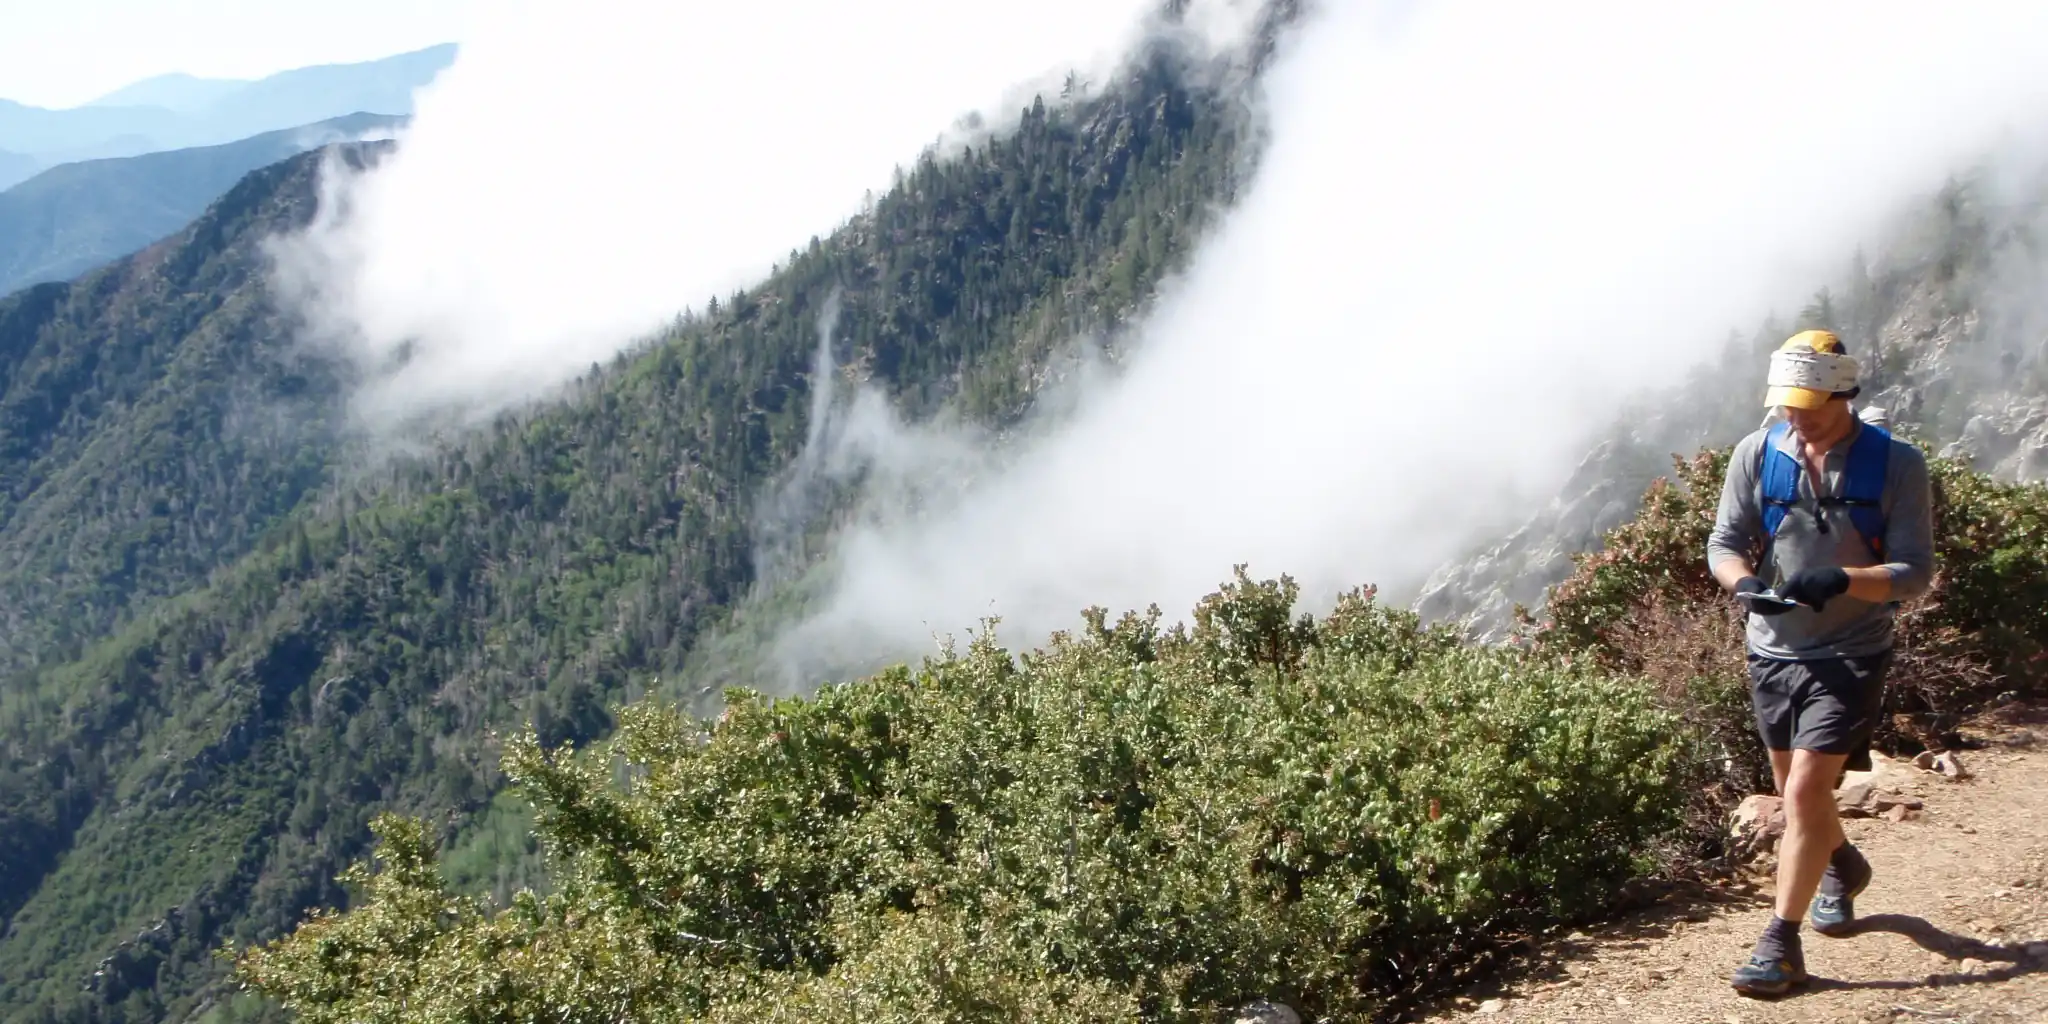
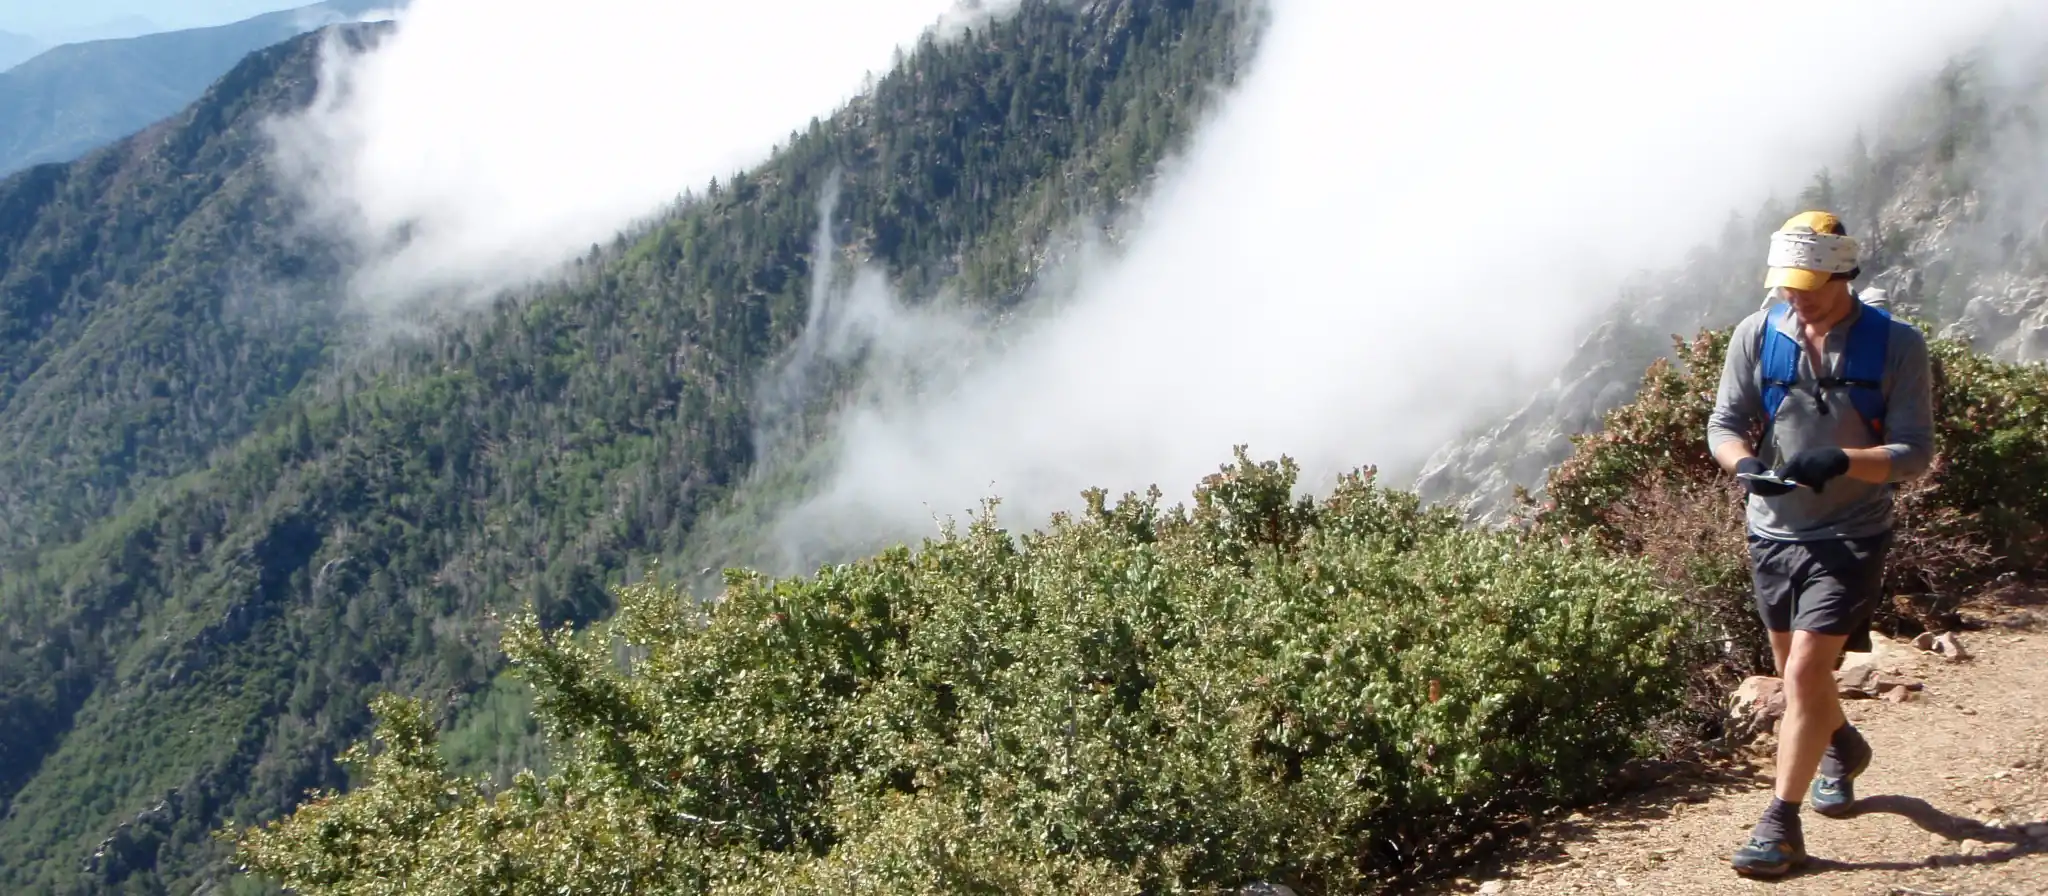
Work

diff --git a/content/_index.html b/content/_index.html
@@ -5,7 +5,7 @@ description = "Ultralight backpacking and hiking, gear lists, product reviews, t
 +++
 
 {{< blocks/section class="mt-9" >}}
-{{< figure src="img/jw-sierras-20121122.jpg"  caption="JW Castle Domes, SEKI Sierras. Photo: Nick Bobroff" >}}
+{{< figure src="img/ultralight-backpacking-hiking.webp"  caption="JW Castle Domes, SEKI Sierras. Photo: Nick Bobroff" >}}
 {{< /blocks/section >}}
 
 {{< blocks/section width="max-w-3xl" class="mt-9" >}}

diff --git a/content/ultralight-backpacking-gear-list.md b/content/ultralight-backpacking-gear-list.md
@@ -3,7 +3,7 @@ date = 2020-06-15T14:00:00Z
 lastmod = 2020-07-01T03:00:00Z
 title = "2020 Ultralight Backpacking Gear List 9 lb"
 caption = "Stoke level way up on an icy morning. Ojai, CA. Photo: Nick Bobroff"
-feature = "img/jw-chief-peak-20121230.jpg"
+feature = "img/ultralight-thru-hike-gear-list.webp"
 maxWidthContent = "max-w-6xl"
 
 # print version
